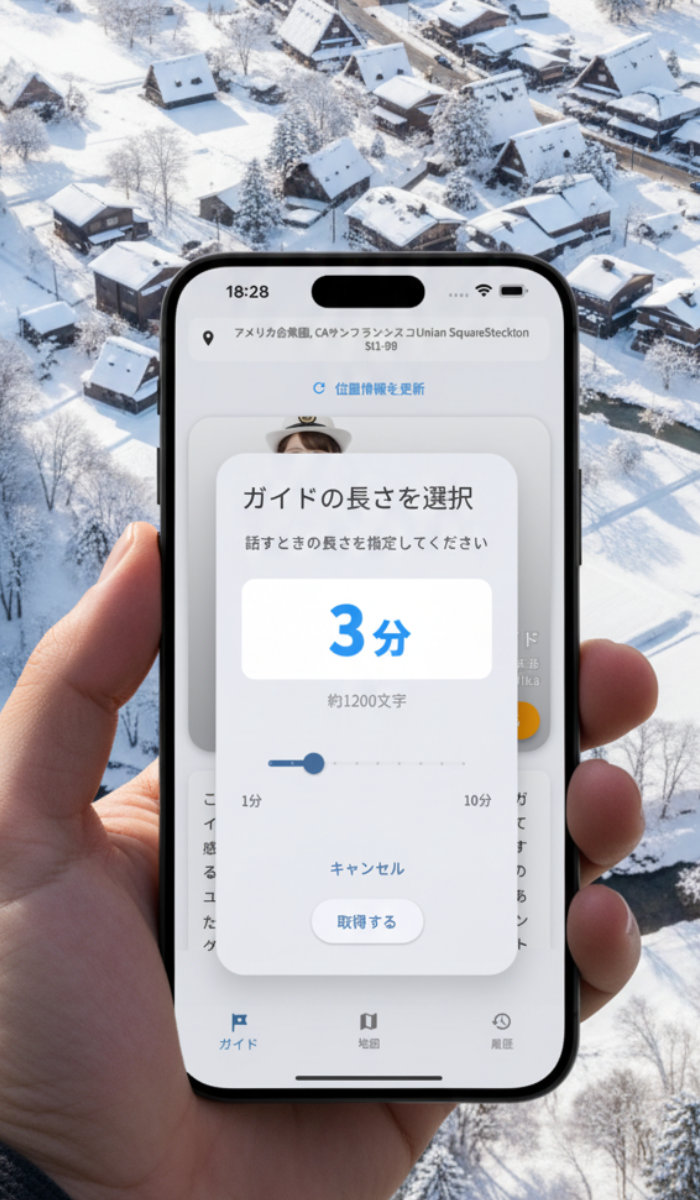
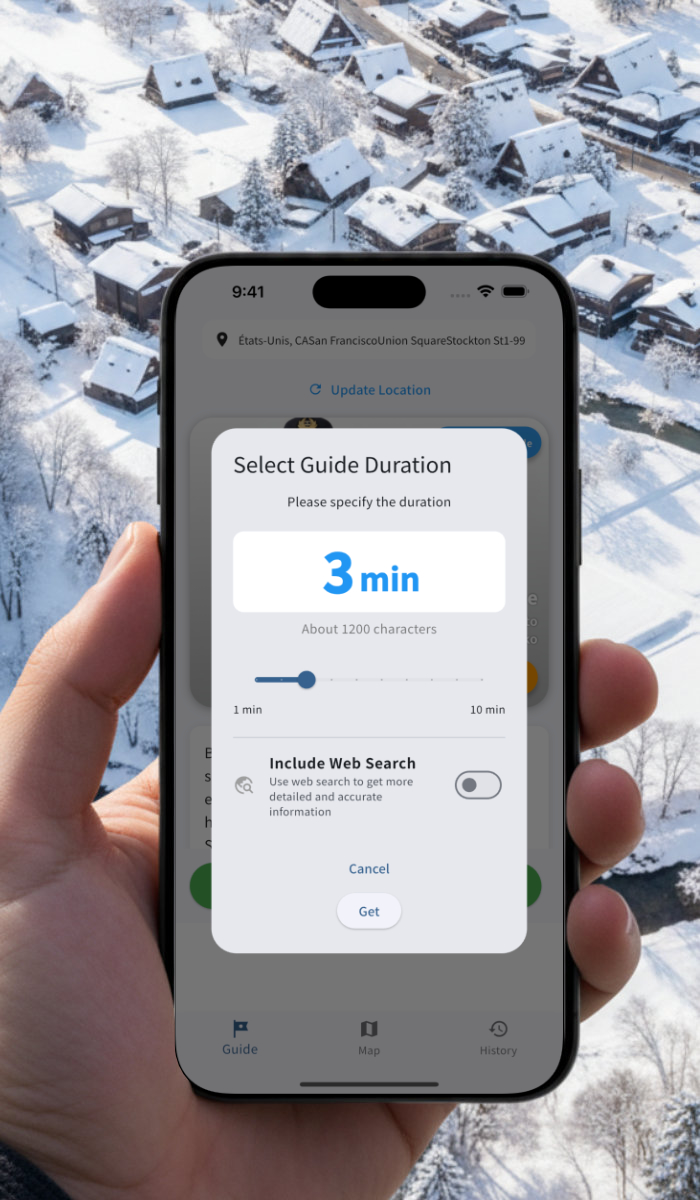
1222

Changed region(s): [[0.24, 0.2158, 0.81, 0.925]]

diff --git a/script.js b/script.js
@@ -26,9 +26,9 @@ const translations = {
         "feature.3.title": "音声読み上げ",
         "feature.3.desc": "ガイドテキストを自然な音声で読み上げ。移動中も耳で楽しめる、ハンズフリーな観光体験を。",
         "feature.4.title": "会話機能",
-        "feature.4.desc": "選んだガイドと自由に会話。観光地について質問したり、おすすめスポットを聞いたりできます。",
-        "feature.5.title": "Google検索,X連携",
-        "feature.5.desc": "AIが重要なキーワードを自動抽出。気になるワードをタップするだけで、詳しい情報にアクセス。さらにXとも連携し地域の最新情報にアクセスできます。",
+        "feature.4.desc": "選んだガイドと自由に会話。観光地について質問したり、おすすめスポットを聞いたりできます。X検索、web検索連携によりさらに現地のDEEPな情報も取得できます。",
+        "feature.5.title": "Google検索",
+        "feature.5.desc": "AIが重要なキーワードを自動抽出。気になるワードをタップするだけで、詳しい情報にアクセス。",
         "feature.6.title": "多言語対応",
         "feature.6.desc": "日本語、英語、中国語、フランス語に対応。海外からの旅行者も安心してご利用いただけます。",
         "personas.tag": "AI Guides",
@@ -81,9 +81,9 @@ const translations = {
         "feature.3.title": "Voice Reading",
         "feature.3.desc": "Read guide text with natural voice. Enjoy hands-free sightseeing experience even while moving.",
         "feature.4.title": "Conversation Function",
-        "feature.4.desc": "Talk freely with the selected guide. Ask questions about sightseeing spots or ask for recommendations.",
+        "feature.4.desc": "Talk freely with the selected guide. Ask questions about sightseeing spots or ask for recommendations. With X search and web search integration, you can also get deeper local information.",
         "feature.5.title": "Google Search, X Integration",
-        "feature.5.desc": "AI automatically extracts important keywords. Just tap the word you are interested in to access detailed information. You can also access the latest information in the area through X integration.",
+        "feature.5.desc": "AI automatically extracts important keywords. Just tap the word you are interested in to access detailed information.",
         "feature.6.title": "Multilingual Support",
         "feature.6.desc": "Supports Japanese, English, Chinese, and French. Travelers from overseas can use it with peace of mind.",
         "personas.tag": "AI Guides",
@@ -800,7 +800,7 @@ const screenshotsData = [
     { src: 'image/screen/screen1.jpg', caption: { ja: 'ホーム画面', en: 'Home Screen' } },
     { src: 'image/screen/screen2.jpg', caption: { ja: '地図画面', en: 'Map Screen' } },
     { src: 'image/screen/screen3.jpg', caption: { ja: 'チャット画面', en: 'Chat Screen' } },
-    { src: 'image/screen/screen8.jpg', caption: { ja: 'X連携', en: 'X Link' } },
+    { src: 'image/screen/screen8.jpg', caption: { ja: 'X検索、Web検索', en: 'X Search, Web Search' } },
     { src: 'image/screen/screen4.jpg', caption: { ja: 'ペルソナ選択', en: 'Persona Selection' } },
     { src: 'image/screen/screen5.jpg', caption: { ja: 'ガイド画面', en: 'Guide Screen' } },
     { src: 'image/screen/screen6.jpg', caption: { ja: '履歴画面', en: 'History Screen' } },

diff --git a/index.html b/index.html
@@ -152,7 +152,7 @@
                 <div class="feature-card">
                     <div class="feature-content">
                         <h3 data-i18n="feature.4.title">会話機能</h3>
-                        <p data-i18n="feature.4.desc">選んだガイドと自由に会話。観光地について質問したり、おすすめスポットを聞いたりできます。</p>
+                        <p data-i18n="feature.4.desc">選んだガイドと自由に会話。観光地について質問したり、おすすめスポットを聞いたりできます。X検索、web検索連携によりさらに現地のDEEPな情報も取得できます。</p>
                     </div>
                     <div class="feature-visual">
                         <span class="feature-emoji">💬</span>
@@ -161,9 +161,9 @@
 
                 <div class="feature-card">
                     <div class="feature-content">
-                        <h3 data-i18n="feature.5.title">Google,X検索連携</h3>
+                        <h3 data-i18n="feature.5.title">Google検索連携</h3>
                         <p data-i18n="feature.5.desc">
-                            AIが重要なキーワードを自動抽出。気になるワードをタップするだけで、詳しい情報にアクセス。さらにXとも連携し地域の最新情報にアクセスできます。</p>
+                            AIが重要なキーワードを自動抽出。気になるワードをタップするだけで、詳しい情報にアクセスできます。</p>
                     </div>
                     <div class="feature-visual">
                         <span class="feature-emoji">🔍</span>
